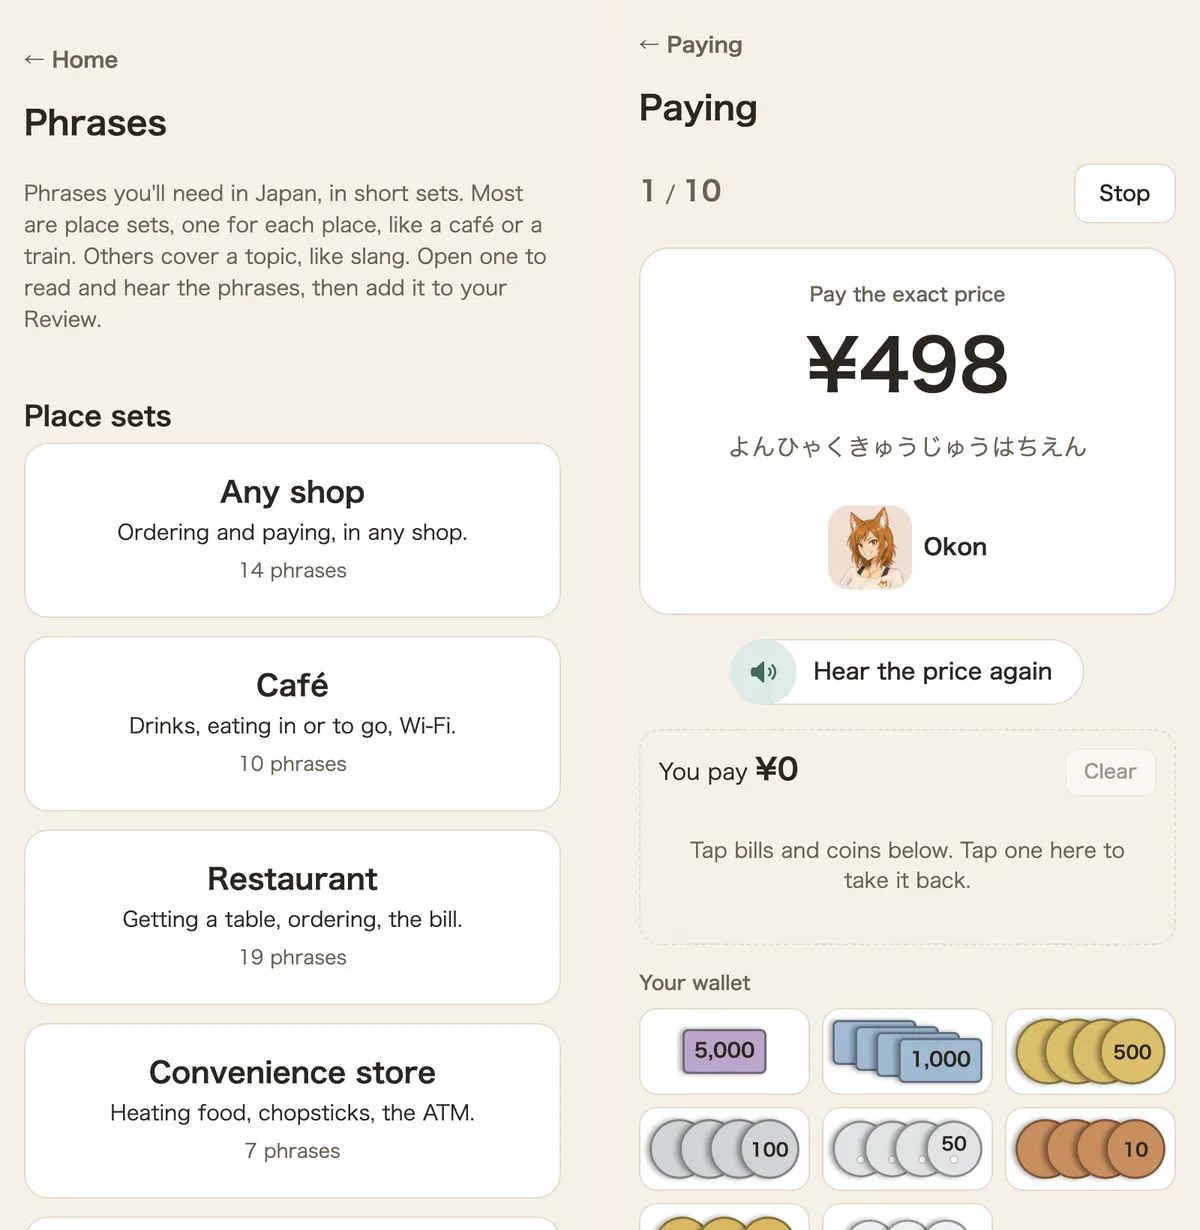
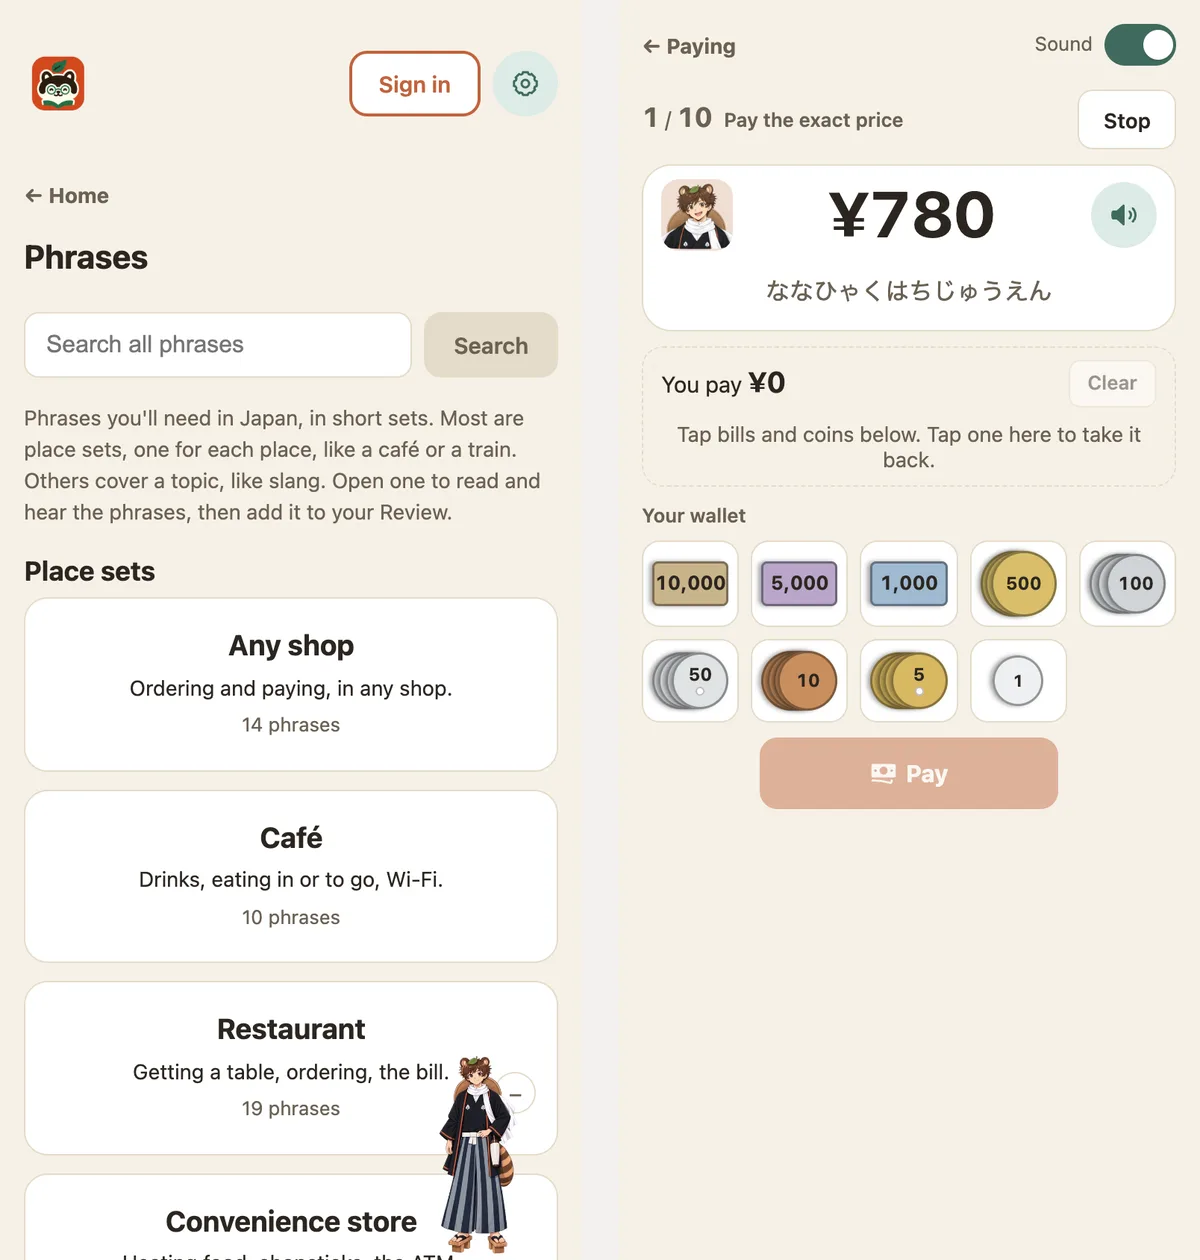
Kotoyokai の英語の紹介記事を今のアプリに合わせて書き直す
題・description・本文を、ひらがなから進むコース（152 レッスン・10 Area）と、
まめた・おこんから選ぶ相棒を中心にした今の形に合わせた。今アプリにいないキャラの記述を除いた。
スクショは本番の画面で撮り直し、使わなくなった 7 枚を消した。updatedDate を足した。

diff --git a/src/content/posts/2026/10-20-kotoyokai-learn-japanese-from-zero.md b/src/content/posts/2026/10-20-kotoyokai-learn-japanese-from-zero.md
@@ -1,7 +1,8 @@
 ---
-title: "Kotoyokai: Learn Japanese from Zero, Then Chat with a Tanuki, a Ninja and a Tokyo Gyaru"
-description: "Kotoyokai takes English speakers from their first hiragana to real conversations in Japanese. Kana, 2,211 kanji and travel phrases are free, and every lesson audio clip is checked by a native speaker."
+title: "Kotoyokai: Learn Japanese from Zero with a Yokai Buddy, One Short Lesson at a Time"
+description: "Kotoyokai is a Japanese course for English speakers that starts at hiragana: 152 short lessons, with a tanuki or fox buddy you can ask in Japanese or English. The course, kana, 2,211 kanji, travel phrases and games are free, and lesson audio is checked by a native speaker."
 pubDate: 2026-10-20
+updatedDate: 2026-11-13
 categories: ["AI", "開発"]
 tags: []
 lang: "en"
@@ -9,87 +10,75 @@ lang: "en"
 
 Hi, I'm moh, a freelance software engineer in Japan. If you spot anything wrong, let me know through a GitHub issue or on X.
 
-I built Kotoyokai for English speakers who want to learn Japanese and are starting from nothing. You begin by listening to hiragana and tracing it with your finger, and you keep going until you're chatting in Japanese with a tanuki, a fox, a ninja spirit and a Tokyo gyaru. Kana, kanji and travel phrases are free, and every lesson audio clip has been checked by me, a native Japanese speaker, before it goes live.
+I built Kotoyokai for English speakers who want to learn Japanese and are starting from nothing. It's a course that begins with your first hiragana and moves one short lesson at a time, with a yokai buddy in the corner of every page you can ask when you're stuck. The course, kana, kanji, travel phrases and games are free, and every lesson audio clip has been checked by me, a native Japanese speaker, before it goes live.
 
 https://kotoyokai.com/mohblog
 
-![The Kotoyokai home page. A yellow banner reads "Learn Japanese with a cast of yokai, ninja and gyaru." Below it, Mameta the tanuki waves, and a speech bubble shows his greeting in Japanese with an English translation. The fox, the teacher and the ninja stand underneath, next to a "FREE" tag](./10-20-kotoyokai-hero.webp)
+![The Kotoyokai home page on a yellow background. The headline reads "Learn Japanese with your buddy." Below it: "Start from hiragana, one short lesson at a time. Your buddy stays with you and helps when you're stuck.", a "Start lesson 1 — free" button, "Free. No sign-up needed." and an App Store badge. On the right, a woman on a sofa looks at her phone while Mameta, a tanuki boy in a kimono and hakama, points at the screen](./10-20-kotoyokai-hero.webp)
 
 ## Who it's for
 
 Kotoyokai is for you if you can't read hiragana yet. Maybe anime or a planned trip got you curious, but a textbook feels like too much.
 
-The whole app is in English, and it decides the order for you. The home screen lays out a path to JLPT N5 in five steps: Kana, Words, Numbers, Sentences, then Kanji. Start at Step 1 and keep going down. You never have to work out what to study next.
+The whole app is in English, and it decides the order for you. You don't have to work out what to study next: open the course, tap Continue, and do the next lesson.
 
-![The home screen on a phone. Under "START FROM ZERO", cards for Step 1 Kana, Step 2 Words, Step 3 Numbers and Step 4 Sentences are stacked, each with a character illustration and a short description in English](./10-20-kotoyokai-home.webp)
+## The course
 
-## Start with kana
+The course is 152 short lessons in 10 areas: Hiragana, Basics, Katakana, People, Food and drink, Home and clothes, Animals and nature, Around town and travel, Kanji N5 and Kanji N4. Short sentences come in along the way, and kanji come last.
 
-Kana come first. Tap any character on the chart and you hear it in a character's voice. All 107 sounds of hiragana and katakana are there, including voiced sounds like が (ga) and combined sounds like きゃ (kya), read by Mameta the tanuki and Okon the fox.
+Each lesson shows you something new, like a letter, a word or a short sentence, and reads it aloud. Then you answer a few quick questions: pick the right reading, match pairs, or put a sentence in order. If you already read kana, you can open any lesson and skip ahead.
 
-Then you make them stick with games. In Kana Bounce, kana fall from the top and you bounce them into boxes to spell a word. In the screenshot on the right, the clue is "snow": you bounce ゆ (yu) into the first box, then き (ki), and you get ゆき (yuki), "snow". One round is 7 words and takes about a minute. Kana Flick gets you used to the flick keyboard Japanese people use on their phones.
+![The "How the course works" section. Three phone screens: a lesson introducing the new letter あ with the prompt "Find あ below", a question "How do you read this?" with the choices u, i and a, and the course path with かきくけこ and さしすせそ checked and たちつてと marked "Up next". Below, a box titled "THE PATH · 152 LESSONS" lists the areas from Hiragana to Kanji N4](./10-20-kotoyokai-course.webp)
 
-![Left: the hiragana chart, with romaji under each character and a speaker button at the start of every row. Right: Kana Bounce. Under the clue "snow", a cat holds a paddle while the kana ゆ flies along a dotted path toward two boxes marked ゆ and き](./10-20-kotoyokai-kana-pair.webp)
+## Your buddy
 
-Listening alone won't teach you to write, so there's a writing drill too. You trace a model character three times, and the model fades a little each round until you're writing on your own. All 71 basic kana are covered.
+You pick one buddy: Mameta, a young tanuki still learning to transform, or Okon, a young fox who hates losing. Your buddy stands in the corner of every page.
 
-![Two screenshots of the writing drill. Left: the model for あ (a) in terracotta. Right: after tracing the first stroke with a finger, the traced line is black and the remaining strokes are light gray](./10-20-kotoyokai-write.webp)
+![The "Pick your buddy" section on a navy background: "In a lesson, tap your buddy in the corner and ask about the question you're on. Outside lessons, chat with them in easy Japanese." Two cards: Mameta (Practice partner · N5), "A young tanuki still learning to transform", and Okon (Rival), "A young fox who hates losing. To Mameta, or to you."](./10-20-kotoyokai-buddy-pick.webp)
+
+In a lesson, tap your buddy and ask about the question you're on. You can ask in English. The reply comes in easy Japanese with an English line under it, and it's read aloud. Outside lessons, you can just chat with your buddy in Japanese, using the words you learned that day.
+
+![Left: lesson 1 on a phone. "NEW LETTER あ a, how it's read", "Find あ below." with three cards え, う and あ, and Mameta standing in the bottom-right corner. Right: the same screen after tapping Mameta. A speech bubble marked "AI character, not a real person" says 「あ」か。ぼくも いま さがしてる。 with the English "あ, huh. I'm looking for it too." Below it is an input box with the placeholder "English is OK"](./10-20-kotoyokai-lesson-pair.webp)
+
+## Kana, kanji and phrases on their own
+
+Besides the course, each topic has its own page, and all of them are free.
+
+- Kana: a chart with all 107 sounds of hiragana and katakana, including が, ぱ and きゃ. Tap a kana to hear it. In Write, you trace each of the 71 basic kana three times, and the guide fades each time.
+- Words: 454 everyday words in 47 small sets, like greetings, days of the week and family.
+- Numbers and Sentences: dates, times, prices, and how は, を and へ are read in a sentence.
+- Kanji: all 2,211 kanji from N5 to N1, each with stroke order you can watch or trace. Mark the ones you know, and you'll see how many words you can now read.
+- Phrases: sets grouped by place, like any shop, café, restaurant, convenience store, train, airport and hotel, plus slang. Every phrase has audio.
+
+![Left: the hiragana chart on a phone, with romaji under each character and a speaker button at the start of every row. Right: Write kana. "1 / 71", "Trace あ 1/3" and a "Show order" button above a box with the model あ in terracotta](./10-20-kotoyokai-kana-pair.webp)
+
+![Left: the page for the kanji 休. 休 hangs on a scroll, with a "Stroke order" button, a JLPT N5 tag, the meaning "rest · day off · retire · sleep", and 休み (holiday) and 休む (to rest) with their readings. Right: the stroke order dialog, "Stroke order 休, 6 strokes", with Watch and Trace buttons and the full character drawn](./10-20-kotoyokai-kanji-pair.webp)
+
+There are short games too: Kana Bounce, where you bounce falling kana into boxes to spell a word, Kana Flick for the phone keyboard people in Japan use, and Paying. In Paying, a yokai says a price in Japanese and you pay it with yen bills and coins. Once that's easy, try paying like a local: for a ¥3,828 bill, hand over ¥4,028 and get a clean ¥200 back.
+
+![Left: the Phrases page, with a search box and place sets: Any shop (14 phrases), Café (10 phrases), Restaurant (19 phrases) and Convenience store. Right: Paying, "1 / 10 Pay the exact price". Mameta's face sits next to ¥780 and ななひゃくはちじゅうえん, above "You pay ¥0" and a wallet with bills from ¥10,000 down to a ¥1 coin](./10-20-kotoyokai-trip-pair.webp)
 
 ## Audio you can trust
 
-Every audio clip in Kana, Words, Numbers, Phrases and the yen game is generated, then listened to by me. I only keep the ones with the right reading and the right pitch accent.
+Every audio clip in the course, Kana, Words, Numbers, Sentences, Phrases and Paying is generated, then listened to by me. I only keep the ones with the right reading and the right pitch accent.
 
 This matters because a beginner can't hear a mistake in the model. An advanced learner notices when the accent is off. Someone who just learned hiragana copies it as is. Text-to-speech makes mistakes: it sometimes turns へ (he) into a different sound, or puts the accent on the wrong part of a word. I run an automatic reading check first, and then a human ear makes the final call.
 
-For you, this means you can copy what you hear without second-guessing it. The exceptions are chat replies and lesson hints. Those are generated live, so nobody can check them in advance, and the site says so.
-
-## Kanji with pictures and stroke order
-
-There are 2,211 kanji from N5 to N1, and every one has its stroke order.
-
-![The page for the kanji 休 (rest). On the left, 休 hangs on a scroll. On the right are a "Stroke order" button, a JLPT N5 tag, the meaning "rest · day off · retire · sleep", and the readings of 休み (yasumi, "a break") and 休む (yasumu, "to rest") with English. Below, the "Picture it" section shows 休 with 亻 (person) in red and 木 (tree) in green, and the line "a person leans on a tree to rest"](./10-20-kotoyokai-kanji.webp)
-
-Some kanji have a "Picture it" section that breaks the character into parts and draws them. For 休, a person leaning against a tree to rest slowly turns into the shape of 休 itself. While the page is open, it keeps moving back and forth between the picture and the character.
-
-![Three frames of the Picture it animation for 休. Left: a person dozing against a tree, with "Zz". Middle: the drawing halfway into the character. Right: 休 with 亻 in red and 木 in green](./10-20-kotoyokai-morph.webp)
-
-"Watch" plays the strokes one at a time, and "Trace" lets you write them yourself. When you know a kanji, tap "I know this kanji" to add it to your collection, and you'll see how many more words you can now read.
-
-![The stroke order dialog on a phone. "Stroke order 休" and "6 strokes" sit above a Watch / Trace toggle. The person radical and the horizontal stroke are drawn in black, the vertical stroke being drawn now is terracotta, and the remaining strokes are faint](./10-20-kotoyokai-stroke.webp)
-
-## Phrases and yen for your trip
-
-If you're planning a trip to Japan, there are phrase sets grouped by place: any shop, café, restaurant, convenience store, train, airport, phone, Wi-Fi and SIM, taxi, hotel and slang. Every phrase has audio.
-
-In the yen game, a character says a price in Japanese and you pay with bills and coins. Hearing よんひゃくきゅうじゅうはちえん (yonhyaku kyūjū hachi en) and handing over ¥498 right away is harder than it sounds. Once that's easy, try a trick people in Japan use all the time: for a ¥3,828 bill, hand over ¥4,028 and get a clean ¥200 back.
-
-![Left: the phrases screen, with cards for Any shop, Café, Restaurant, Convenience store and more, each with a description and a phrase count. Right: the yen game. "Pay the exact price ¥498" above よんひゃくきゅうじゅうはちえん, Okon the fox's face, and a wallet with everything from a ¥5,000 bill down to a ¥1 coin](./10-20-kotoyokai-trip-pair.webp)
-
-## Chat with the characters
-
-Once you know your kana, you can chat with the characters in Japanese. Their replies are read aloud, and you can open an English translation. Tap any word in a reply to see what it means, and save it to your vocabulary book.
-
-![Left: a chat with Mameta. Under a waving Mameta, his greeting こんにちは、ぼくは まめたです。(Hi, I'm Mameta.) is shown with each word underlined, plus EN and Hint buttons. Right: the lesson list, with role-plays such as "Meeting Mameta for the first time" and their missions](./10-20-kotoyokai-chat-pair.webp)
-
-Each character speaks Japanese at their own level. Mameta is a beginner like you and only uses short, simple sentences. Okon is his rival, a young fox who hates losing. When you're ready for more, move on to Bunbuku-sensei, a teacher who gently corrects your mistakes, Kagemaru, a ninja spirit who still talks the old way, and Rinka, a fox yokai living as a Tokyo gyaru. The home screen lines up eight characters from beginner to advanced.
-
-![The cast section on a navy background: "Every character speaks at their own level." Five cards: Mameta (Fellow beginner · N5), Okon (Rival), Bunbuku-sensei (Teacher), Kagemaru (Ninja spirit) and Rinka (Tokyo gyaru)](./10-20-kotoyokai-cast.webp)
-
-If you don't know what to say, try Lessons. They are short role-plays, like meeting Mameta for the first time or talking with Okon about what you like. You get a role and a mission up front, and the lesson ends when you complete the mission in Japanese.
+For you, this means you can copy what you hear without second-guessing it. The exceptions are your buddy's replies and lesson hints. Those are generated live, so nobody can check them in advance, and the site says so.
 
 ## Review keeps it in your head
 
-You can add any set of kana, words or phrases to your Review. Each card hides the answer, so you recall it first and then tap to check. Cards you remember come back the next day, then after 3, 7, 14, 30 and 90 days. Words you save from chats go in on their own.
+You can add any set of kana, words, numbers or phrases to your Review. Each card hides the answer, so you recall it first and then tap to check. Cards you remember come back the next day, then after 3, 7, 14, 30 and 90 days. Words you save from chats go in on their own.
 
-![The Review section on an orange background: "Recall it first. Then see the answer." Mameta and a woman in a kimono on the left; on the right, three steps (See, Remember, Come back) and the schedule: the next day, then after 3, 7, 14, 30 and 90 days](./10-20-kotoyokai-review.webp)
+![The Review section on an orange background: "Recall it first. Then see the answer." On the left, a man and Mameta sit at a café table with a phone. On the right, three steps: See the kana, word or phrase; Remember it in your head, then tap the card; Come back the next day, then after 3, 7, 14, 30 and 90 days](./10-20-kotoyokai-review.webp)
 
-Trying to recall, with growing gaps between reviews, is one of the best-studied ways to make what you learn last. Kotoyokai keeps track of the schedule, so you don't have to decide what to review or when.
+Kotoyokai keeps track of the schedule, so you don't have to decide what to review or when.
 
 ## What's free
 
-Most of it. Kana, words, numbers, all kanji from N5 to N1, travel phrases and the yen game have no limit. Chat is free for 10 messages a day without signing up, and signing up adds 42 more messages, once.
+Most of it. The course, kana, words, numbers, all kanji from N5 to N1, travel phrases and all the games have no limit, and you can start without signing up. Chatting with your buddy is free for 10 messages a day, and making a free account adds 42 more messages, once.
 
-![The table "Wait, how much of this is free?". Kana, words and numbers; Kanji, N5 to N1; and Phrases for your trip and the yen game: Free, no limit. Review: Free, 3 sets at a time. Chat and lessons: Free, 10 messages a day. When you sign up: 42 more messages, once. Your vocabulary book: Free, up to 30 words](./10-20-kotoyokai-free.webp)
+![The table "Wait, how much of this is free?". The course; Kana, words and numbers; Kanji, N5 to N1; and Phrases for your trip and all the games: Free, no limit. Review: Free, up to 3 sets at a time. Chat and chat lessons with your buddy, with voice: Free, 10 messages a day. Once, when you make a free account: 42 extra chat messages. Your vocabulary book: Free, up to 30 words](./10-20-kotoyokai-free.webp)
 
 You only pay if you want more than 3 sets in Review, or want to chat a lot. Review Unlimited is $19.99 once, with no monthly fee. For heavy chatting there's a 30-day Premium Pass at $9.99 that doesn't renew on its own, and point packs.
 
@@ -97,9 +86,9 @@ You only pay if you want more than 3 sets in Review, or want to chat a lot. Revi
 
 ## Try it
 
-On the web you can start right away without an account. The iPhone app is on the App Store.
+On the web you can start lesson 1 right away without an account. The iPhone app is on the App Store.
 
 - Web: https://kotoyokai.com/mohblog
-- iOS: https://apps.apple.com/us/app/kotoyokai-learn-japanese-kana/id6813738172
+- iOS: https://apps.apple.com/us/app/kotoyokai/id6813738172
 
 If something is confusing or you have feedback, I'd love to hear it on X.
